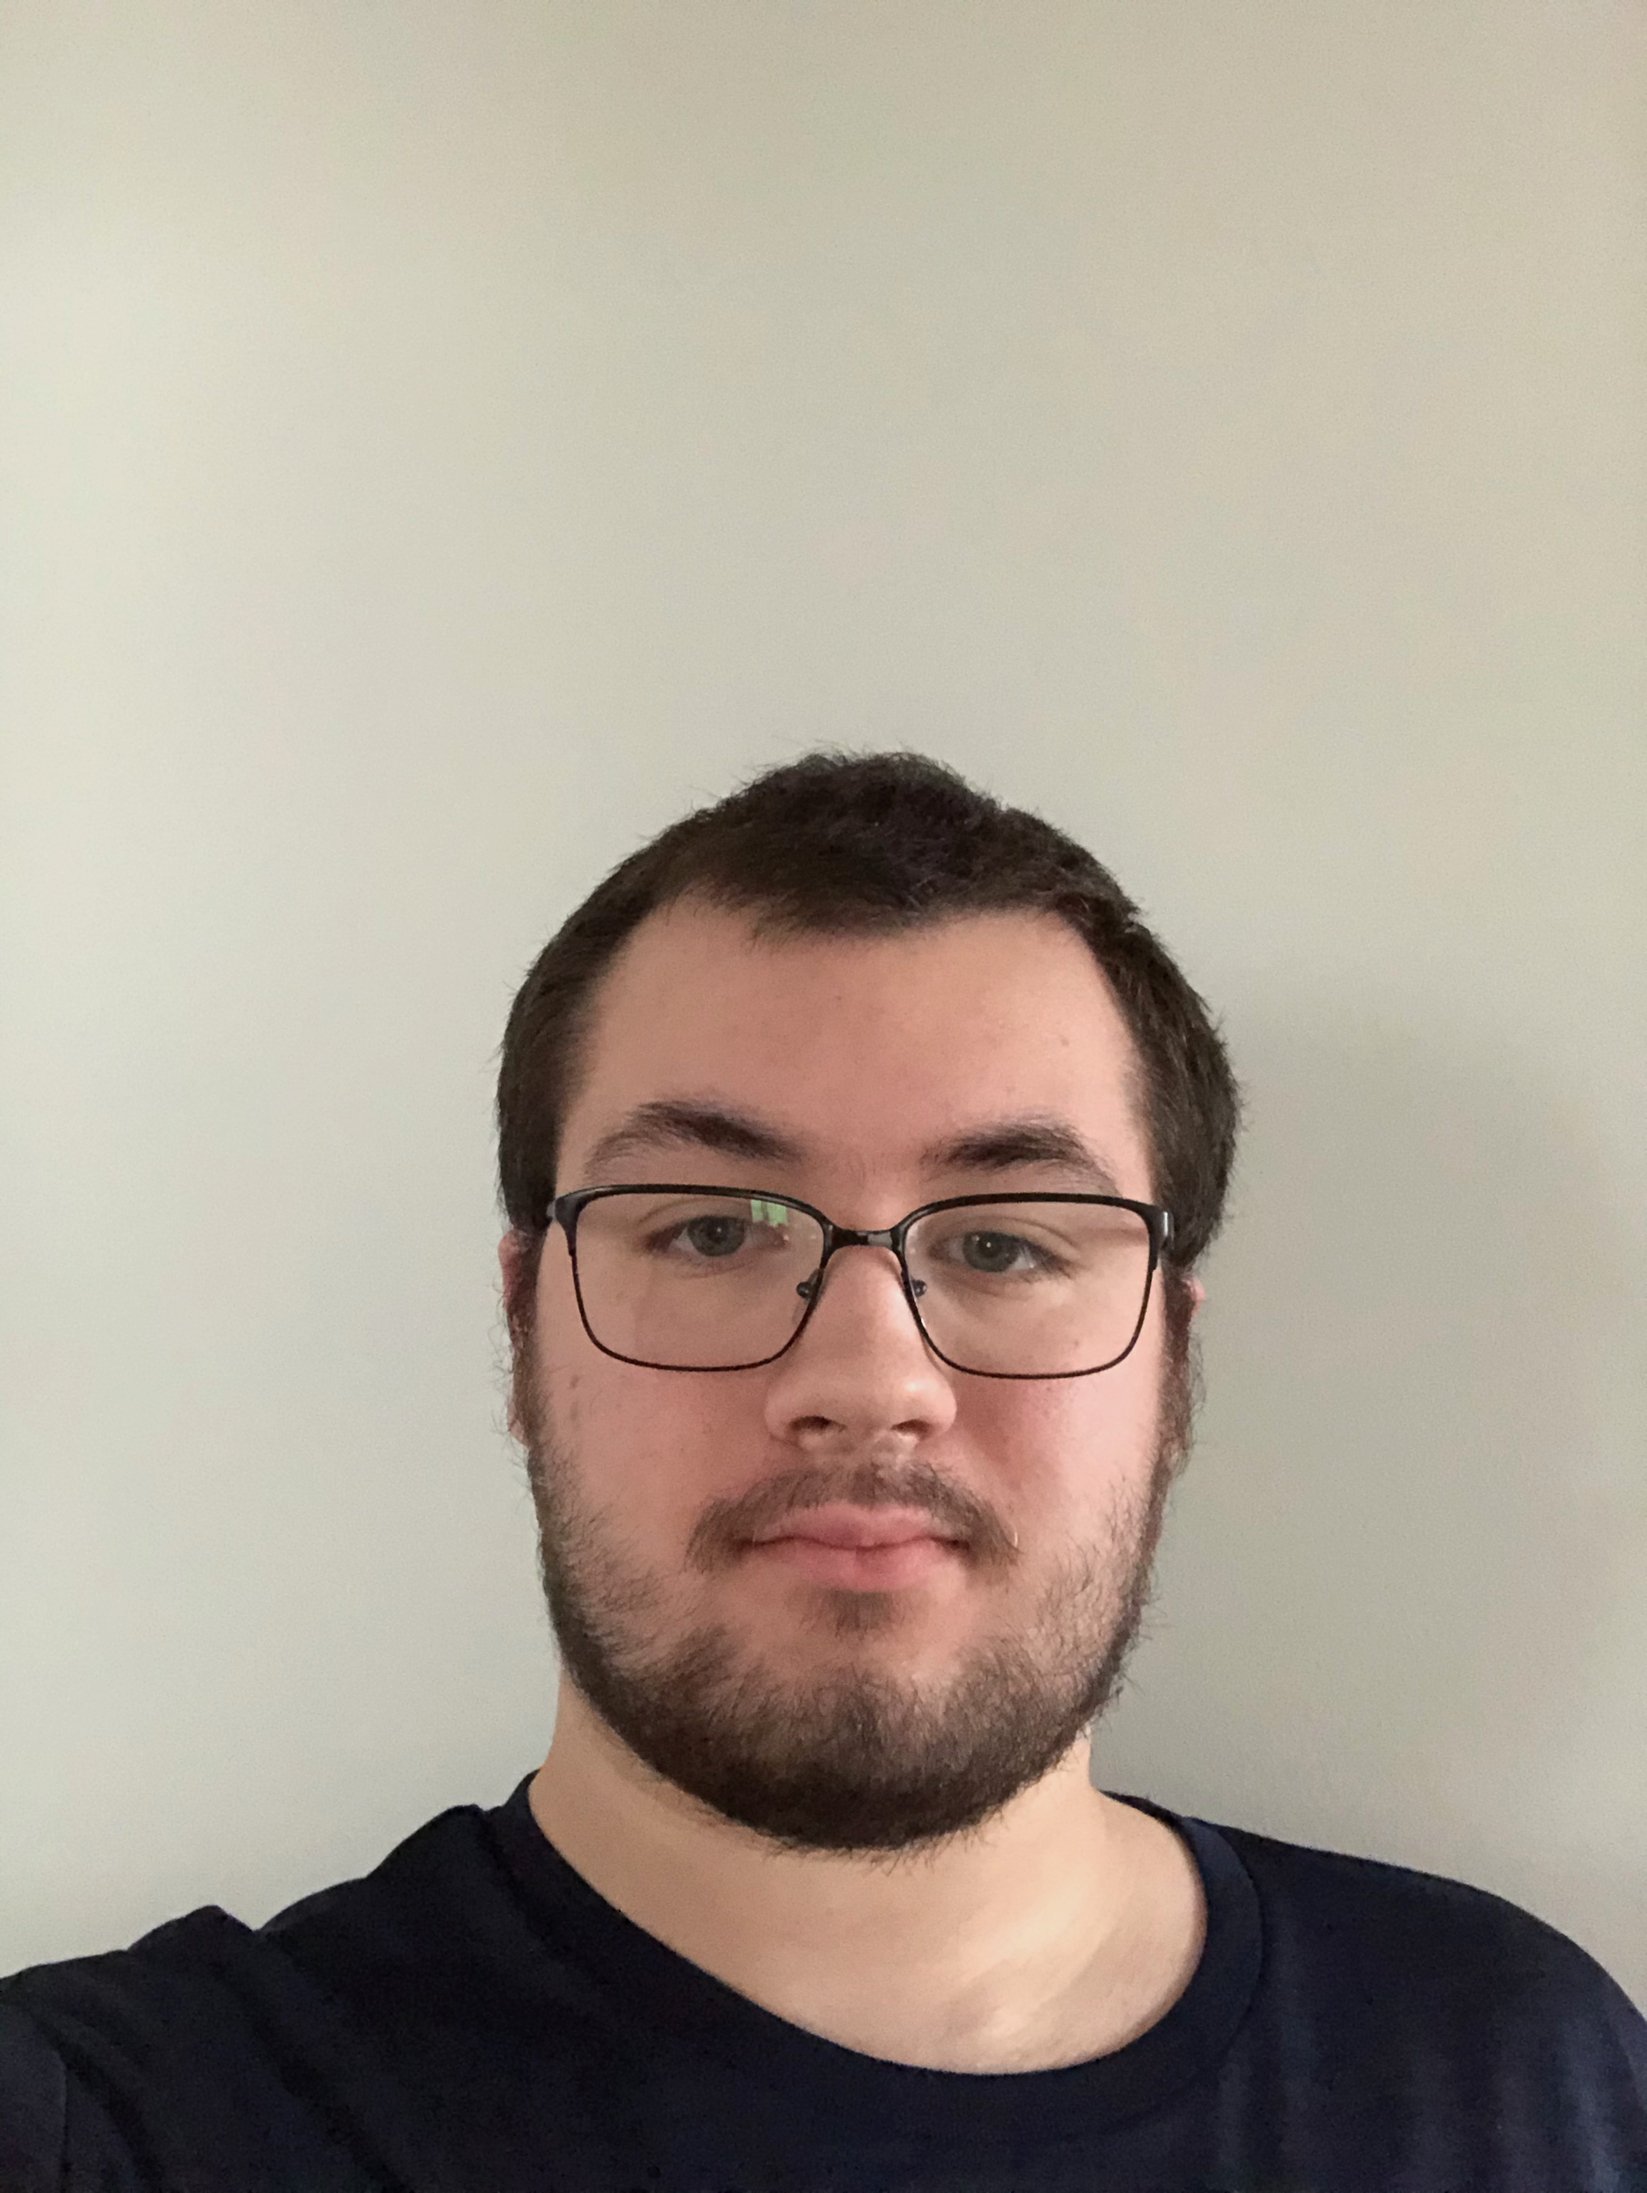
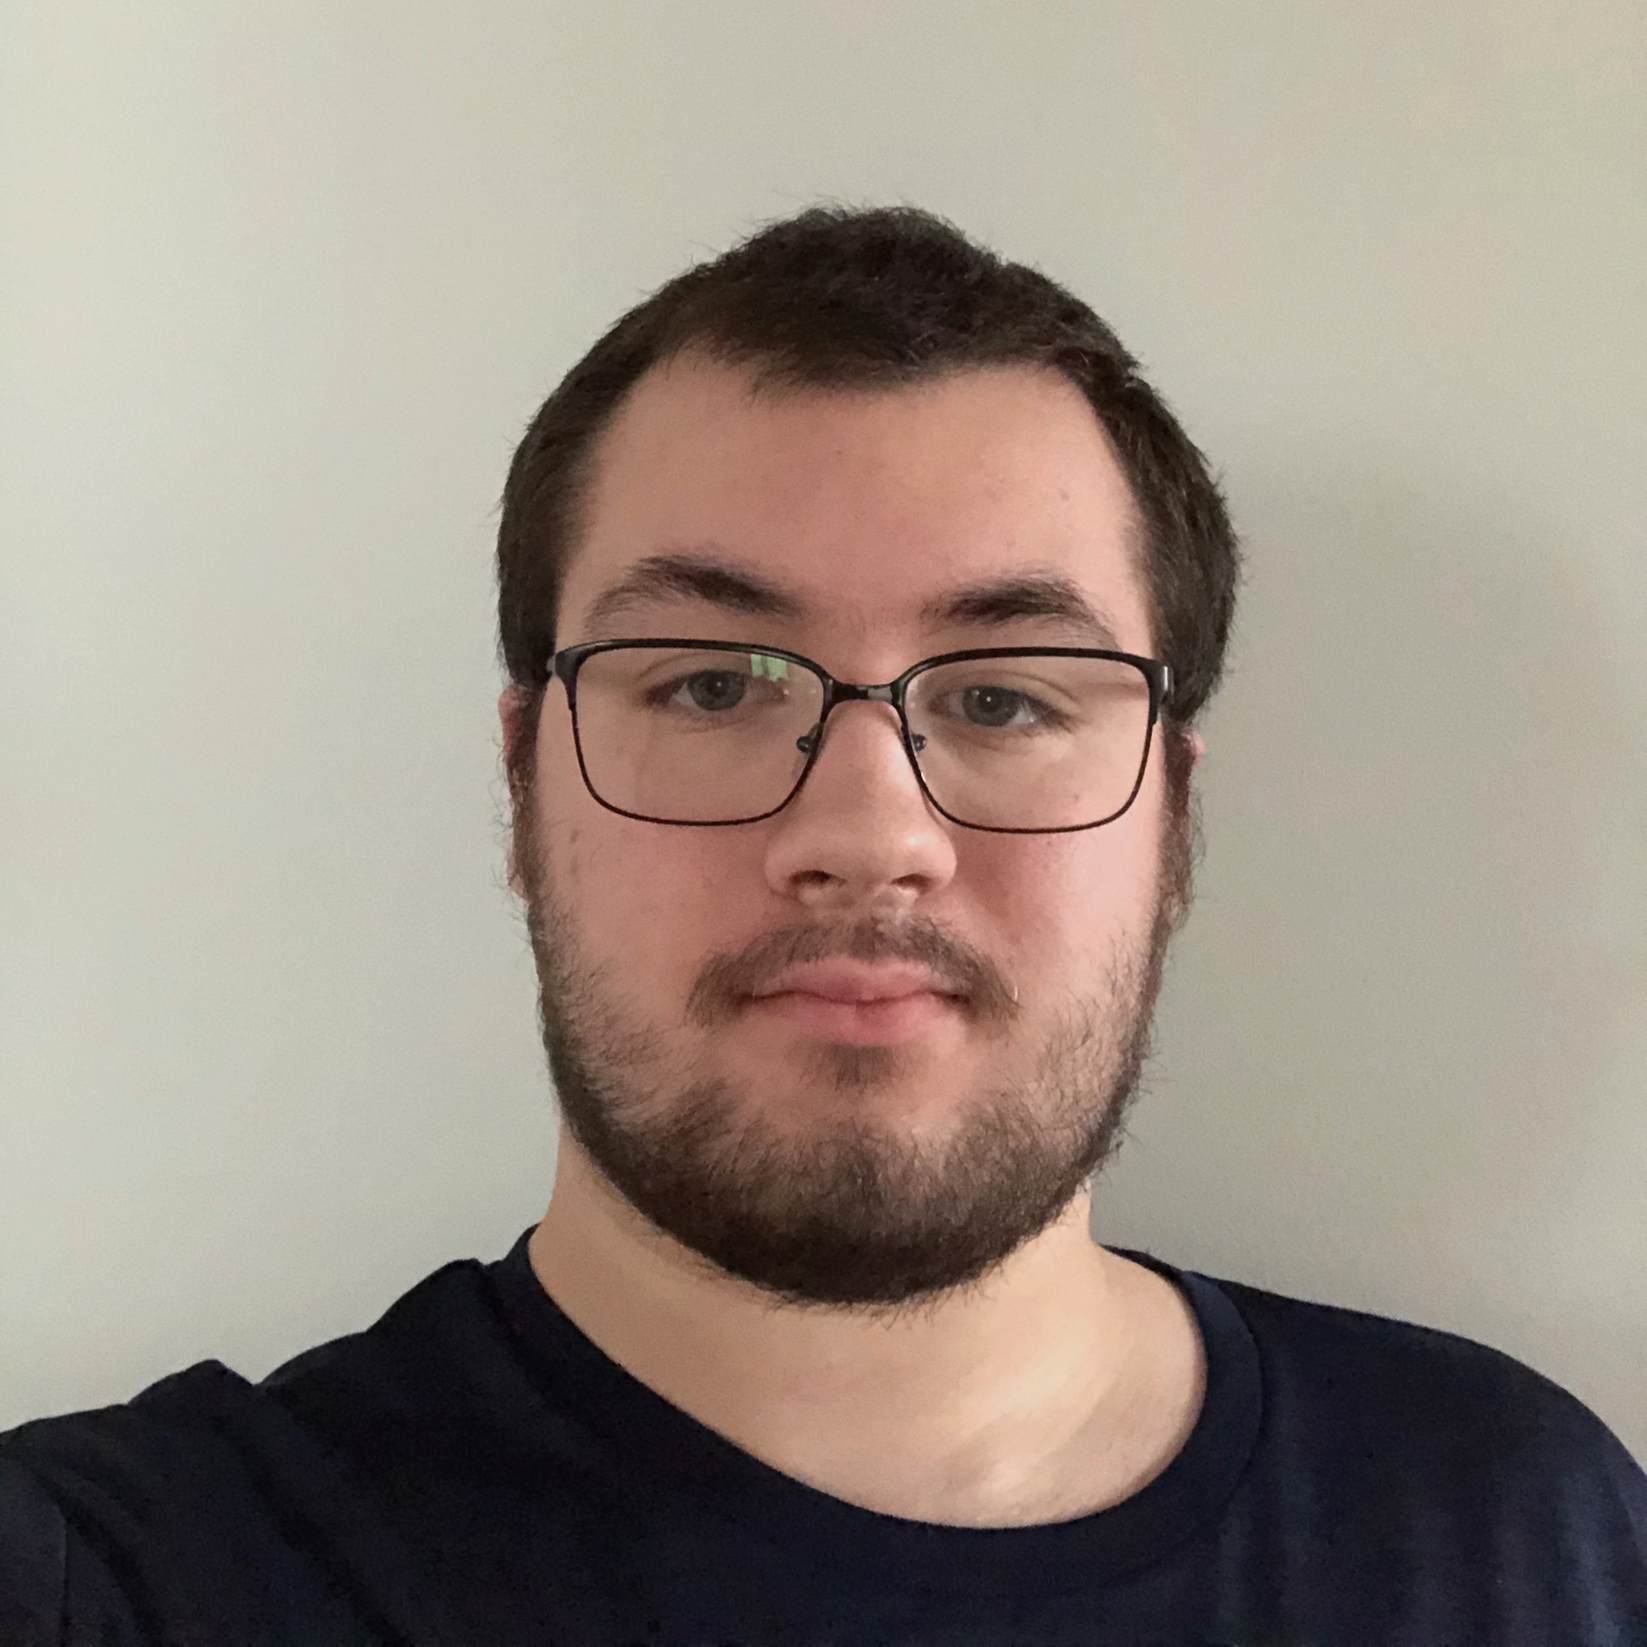
Made profile picture square and added a 'hook' container that displays the first section of the website that the user will see. It shows a picture of me and a statement meant to hook the user into reading the rest of my webpage.

diff --git a/src/app/page.module.scss b/src/app/page.module.scss
@@ -1,9 +1,61 @@
 @use "wood-theme" as wood;
 
 .main {
-  @include wood.straight-grain-1-walnut-dark-bg(135deg);
+  @include wood.straight-grain-1-walnut-dark-bg(0deg);
   h1 {
     color: yellow;
+  }
+
+  .hook {
+    display: flex;
+    flex-direction: row;
+    align-items: center;
+
+    //@include wood.straight-grain-1-pine-dark-bg(0deg);
+    padding: 5%;
+
+    .profilePicBackground { 
+      flex: 30%;
+
+      margin: 0 2%; //keep small amount of space between siblings in same row
+
+
+      //maintain aspect ratio
+      aspect-ratio: 1/1;
+
+      //used to allow absolute positioning for child image
+      position: relative;
+
+      @include wood.straight-grain-1-walnut-light-bg(45deg);
+      border-radius: 50%;
+
+      
+      .profilePic {
+        //this portion centers the image horizontally and vertically to the parent element
+        position: absolute;
+        top: 50%;
+        left: 50%;
+        transform: translate(-50%, -50%);
+
+        border-radius: 50%; //makes the div into a circle (if the element has the same width and height)
+        width: 90%;
+        height: auto; //maintain same aspect ratio
+      }
+    }
+    
+    .pitch {
+      flex: 70%;
+      padding: 2em;
+
+      @include wood.straight-grain-1-basswood-light-bg(0deg);
+      color: invert(wood.$bassword-light2);
+
+      text-align: center;
+      font-weight: bold;
+      font-size: 1.3em;
+      line-height: 2em; //space between line of text
+
+    }
   }
 
   .toolbox {
@@ -26,5 +78,24 @@
     height: 400px;
     margin-left: 10%;
     margin-right: 10%; 
+  }
+}
+
+@media screen and (max-width: 900px) {
+  .main {
+    .hook {
+      display: block; //stack children top to bottom instead of using flex container
+
+      .profilePicBackground { 
+        margin: 10px auto; //center element horizontally and add 10px top and bottom margin
+        width: 50%;
+      }
+      
+      .pitch {
+        margin: auto; //center element horizontally
+        width: 90%; //expand to 90% of parent
+      }
+    }
+
   }
 }

diff --git a/src/app/page.tsx b/src/app/page.tsx
@@ -5,6 +5,17 @@ import styles from './page.module.scss'
 export default function Home() {
   return (
     <main className={styles.main}>
+      <div className={styles.hook}>
+        <div className={styles.profilePicBackground}>
+          <img className={styles.profilePic} src='/me.jpg'/>
+        </div>
+        <p className={styles.pitch}>
+          Just as a craftsman knows the tools of their trade,
+          I know the tools to build your dream websites and mobile
+          apps. I aspire to build great fullstack web and mobile
+          applications for a variety of industries.
+        </p>
+      </div>
       <div id="about">
         <h1>About</h1>
         <canvas className={styles.heroBackgroundCanvas} id="hero-background-canvas"></canvas>

diff --git a/src/components/top-navbar-styles.module.scss b/src/components/top-navbar-styles.module.scss
@@ -31,6 +31,10 @@ $transitionTime: 0.5s;
   //needed so that when nav element moves down and up, the header moves at the same rate as the nav element to avoid clipping off parts of the nav element
   transition: height $transitionTime; 
 
+  //must be 1 because this element must always remain above its
+  //sibling elements: TopNavbar and Footer.
+  z-index: 1;
+
   //use position fixed instead of position sticky so that 
   //navbar is always on top and does not affect the positions
   //of other elements

diff --git a/src/styles/globals.scss b/src/styles/globals.scss
@@ -29,7 +29,13 @@ html {
   background-color: rgb(60, 40, 0);
 }
 
+
+
 #main-page-wrapper {
+  //must be zero because this element must always remain under its
+  //sibling elements: TopNavbar and Footer.
+  z-index: 0;
+
   //add padding on top that is the same height as the navbar
   //because the navbar has a position of fixed.
   //Thus, the page will not change on its own to move content

diff --git a/src/app/layout.tsx b/src/app/layout.tsx
@@ -26,7 +26,7 @@ export default function RootLayout({
         </div>
         
         <Footer />
-        </body>
+      </body>
     </html>
   )
 }
